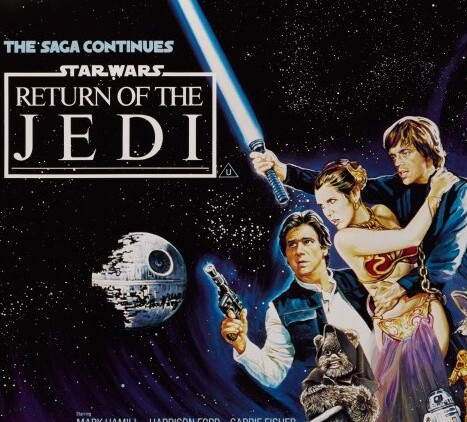
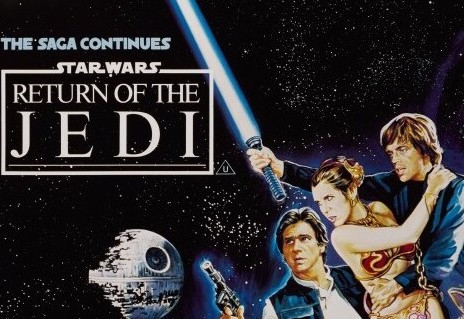
Functions similarly to mockup.

diff --git a/src/App.css b/src/App.css
@@ -1,5 +1,5 @@
 .app {
-  position: relative; /* Ensure it's positioned relatively */
+  position: relative; 
 }
 
 .backdrop {
@@ -30,7 +30,7 @@
 .movie-item {
   position: relative;
   width: 170px;
-  height: 200px;
+  height: 220px;
   margin-bottom: 20px;
   border-radius: 10px;
   overflow: hidden;
@@ -53,17 +53,8 @@
   text-align: center;
   font-size: 12px;
   font-weight: bold;
-}
-
-.blur-behind-title {
-  position: absolute;
-  top: 0;
-  left: 0;
-  width: 100%;
-  height: 100%;
-  background-color: rgba(0, 0, 0, 0.5); /* Semi-transparent background */
-  filter: blur(20px); /* Apply a blur filter */
-  z-index: -1; /* Ensure it's behind the text */
+  background-color: rgba(0, 0, 0, 0.1); /* Semi-transparent background */
+  filter: blur(0.3px); /* Apply a blur filter */
 }
 
 .movie-details {
@@ -79,33 +70,30 @@
   position: relative;
   width: 100%;
   object-fit: cover;
-  left: 40px; /* Adjust as needed */
-  right: 40px; /* Adjust as needed */
+  left: 40px; 
+  right: 40px; 
 }
 
 .expanded-image {
   width: 100%;
   height: 60vh;
   object-fit: cover;
-  object-position: center top; /* Adjust as needed */
+  object-position: center top; 
   border-radius: 10px;
-  z-index: 1; /* Ensure it appears above other content */
+  z-index: 1; 
 }
 
 .movie-image-container .movie-title {
-  position: absolute; /* Position relative to the container */
-  top: 120px; /* Position at the top */
-  left: 150px; /* Position at the left */
+  position: absolute; 
+  top: 120px; 
+  left: 170px; 
   color: white;
   font-size: 38px;
   font-weight: bold;
-  padding: 10px; /* Add padding for better readability */
 }
 
 .favorite-mark {
   position: absolute;
-  top: 140px;
+  top: 130px;
   left: 350px;
 }
-
-

diff --git a/src/components/MovieDetails/MovieDetails.js b/src/components/MovieDetails/MovieDetails.js
@@ -13,13 +13,14 @@ function MovieDetails({ movie, onFavoriteToggle, favorites }) {
       <div className="movie-details">
         <div className="movie-image-container">
           <img src={imagePath} alt={movie.title} className="expanded-image" />
-          <div className="movie-title">
+          <div className="movie-title" style={{ lineHeight: '0.9' }}>
             {movie.title.split(" ").map((word, index) => (
               <div key={index}>{word}</div>
             ))}
           </div>
           <div className="favorite-mark">
-            <LuStar color="white" fill={favorites.some(fav => fav.episode_id === movie.episode_id) ? "yellow" : "transparent"} onClick={() => onFavoriteToggle(movie)}/>
+            <LuStar color="white" size={20} fill={favorites.some(fav => fav.episode_id === movie.episode_id) ? "yellow" : "transparent"} 
+            onClick={() => onFavoriteToggle(movie)} style={{ transform: 'rotate(15deg)' }} />
           </div>
         </div>
       </div>

diff --git a/src/components/MovieList/MovieList.js b/src/components/MovieList/MovieList.js
@@ -13,7 +13,9 @@ function MovieList({ onMovieSelect, onImageClick, favorites, onFavoriteToggle}) 
     async function getMovies() {
       try {
         const data = await fetchMovies();
-        setMovies(data);
+        // Sort the movies by episode_id
+        const sortedMovies = data.sort((a, b) => a.episode_id - b.episode_id);
+        setMovies(sortedMovies);
       } catch (error) {
         console.error("Failed fetching movies:", error);
       } finally {
